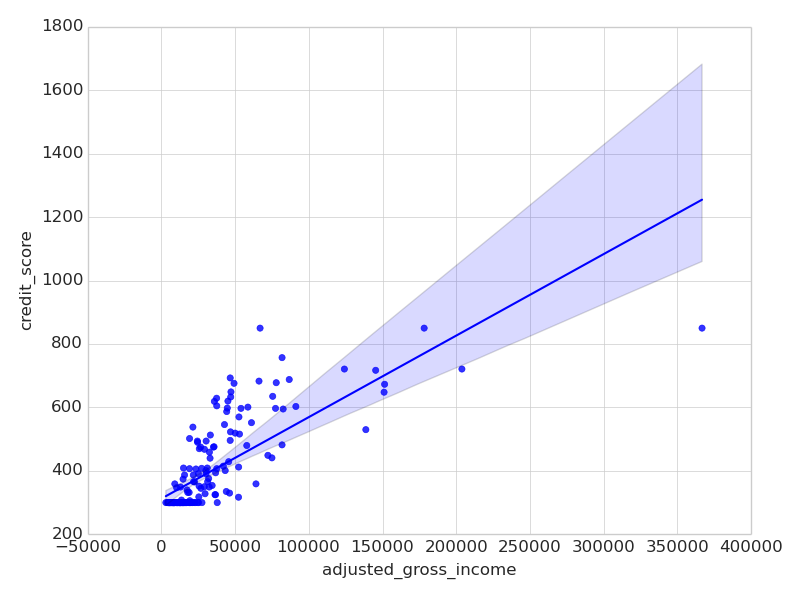
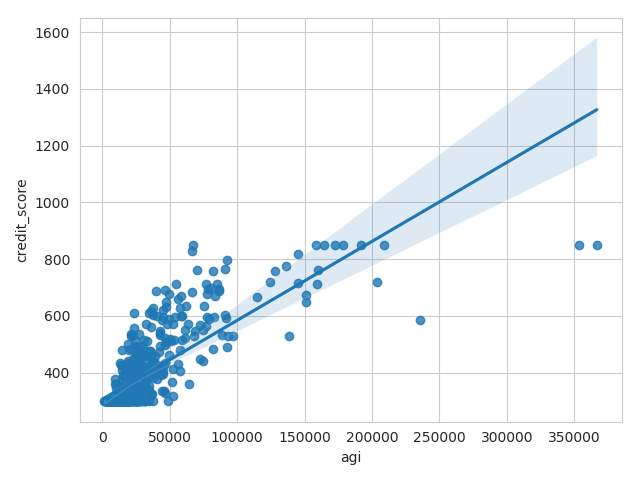
Updates while working on the next release of SIRAD

diff --git a/scatterplot.py b/scatterplot.py
@@ -1,24 +1,19 @@
 import matplotlib.pyplot as plt
 import pandas as pd
 import seaborn as sns
-import sqlite3
 
-sql = """
-      SELECT t.sirad_id,
-             adjusted_gross_income,
-             credit_score
-        FROM tax t
-  INNER JOIN credit_scores cs
-          ON t.sirad_id=cs.sirad_id
-      """
+credit = pd.read_csv("build/research/Example_V1/credit_scores.txt", sep="|", index_col="sirad_id")
+del credit["record_id"]
 
-with sqlite3.connect("build/research_v1.db") as cxn:
-    df = pd.read_sql(sql, cxn, index_col="sirad_id")
+tax = pd.read_csv("build/research/Example_V1/tax.txt", sep="|", index_col="sirad_id")
+del tax["record_id"]
+
+df = credit.join(tax, how="inner")
 
 print(df.head())
 
 sns.set_style("whitegrid")
-sns.regplot("adjusted_gross_income", "credit_score", data=df, truncate=True)
+sns.regplot("agi", "credit_score", data=df, truncate=True)
 plt.tight_layout()
 plt.savefig("scatterplot.png")
 

diff --git a/sirad_config.py b/sirad_config.py
@@ -1,12 +1,15 @@
 """
 Sample configuration file for the sirad command line tool and API. 
 
-See https://github.com/riipl-org/sirad#Configuration
+See https://github.com/ripl-org/sirad#Configuration
 """
-LAYOUTS   = "layouts"
-RAW       = "raw"
-PROCESSED = "build/processed"
-STAGED    = "build/staged"
-RESEARCH  = "build/research_v{}.db"
-PII_SALT  = "pii-secret"
-DATA_SALT = "data-secret"
+LAYOUTS_DIR   = "layouts"
+RAW_DIR       = "raw"
+DATA_DIR      = "build/data"
+PII_DIR       = "build/pii"
+LINK_DIR      = "build/link"
+RESEARCH_DIR  = "build/research"
+PROJECT       = "Example"
+VERSION       = 1
+PII_SALT      = "#piisecret"
+DATA_SALT     = "#datasecret"

diff --git a/simulate.py b/simulate.py
@@ -113,7 +113,7 @@ def main(tax_path, cscore_path):
 
 
 if __name__ == '__main__':
-    outdir = config.get_option("RAW")
+    outdir = config.get_option("RAW_DIR")
     Path(outdir).mkdir(parents=True, exist_ok=True)
     tax_path = os.path.join(outdir, 'tax.txt')
     cscore_path = os.path.join(outdir, 'credit_scores.txt')
